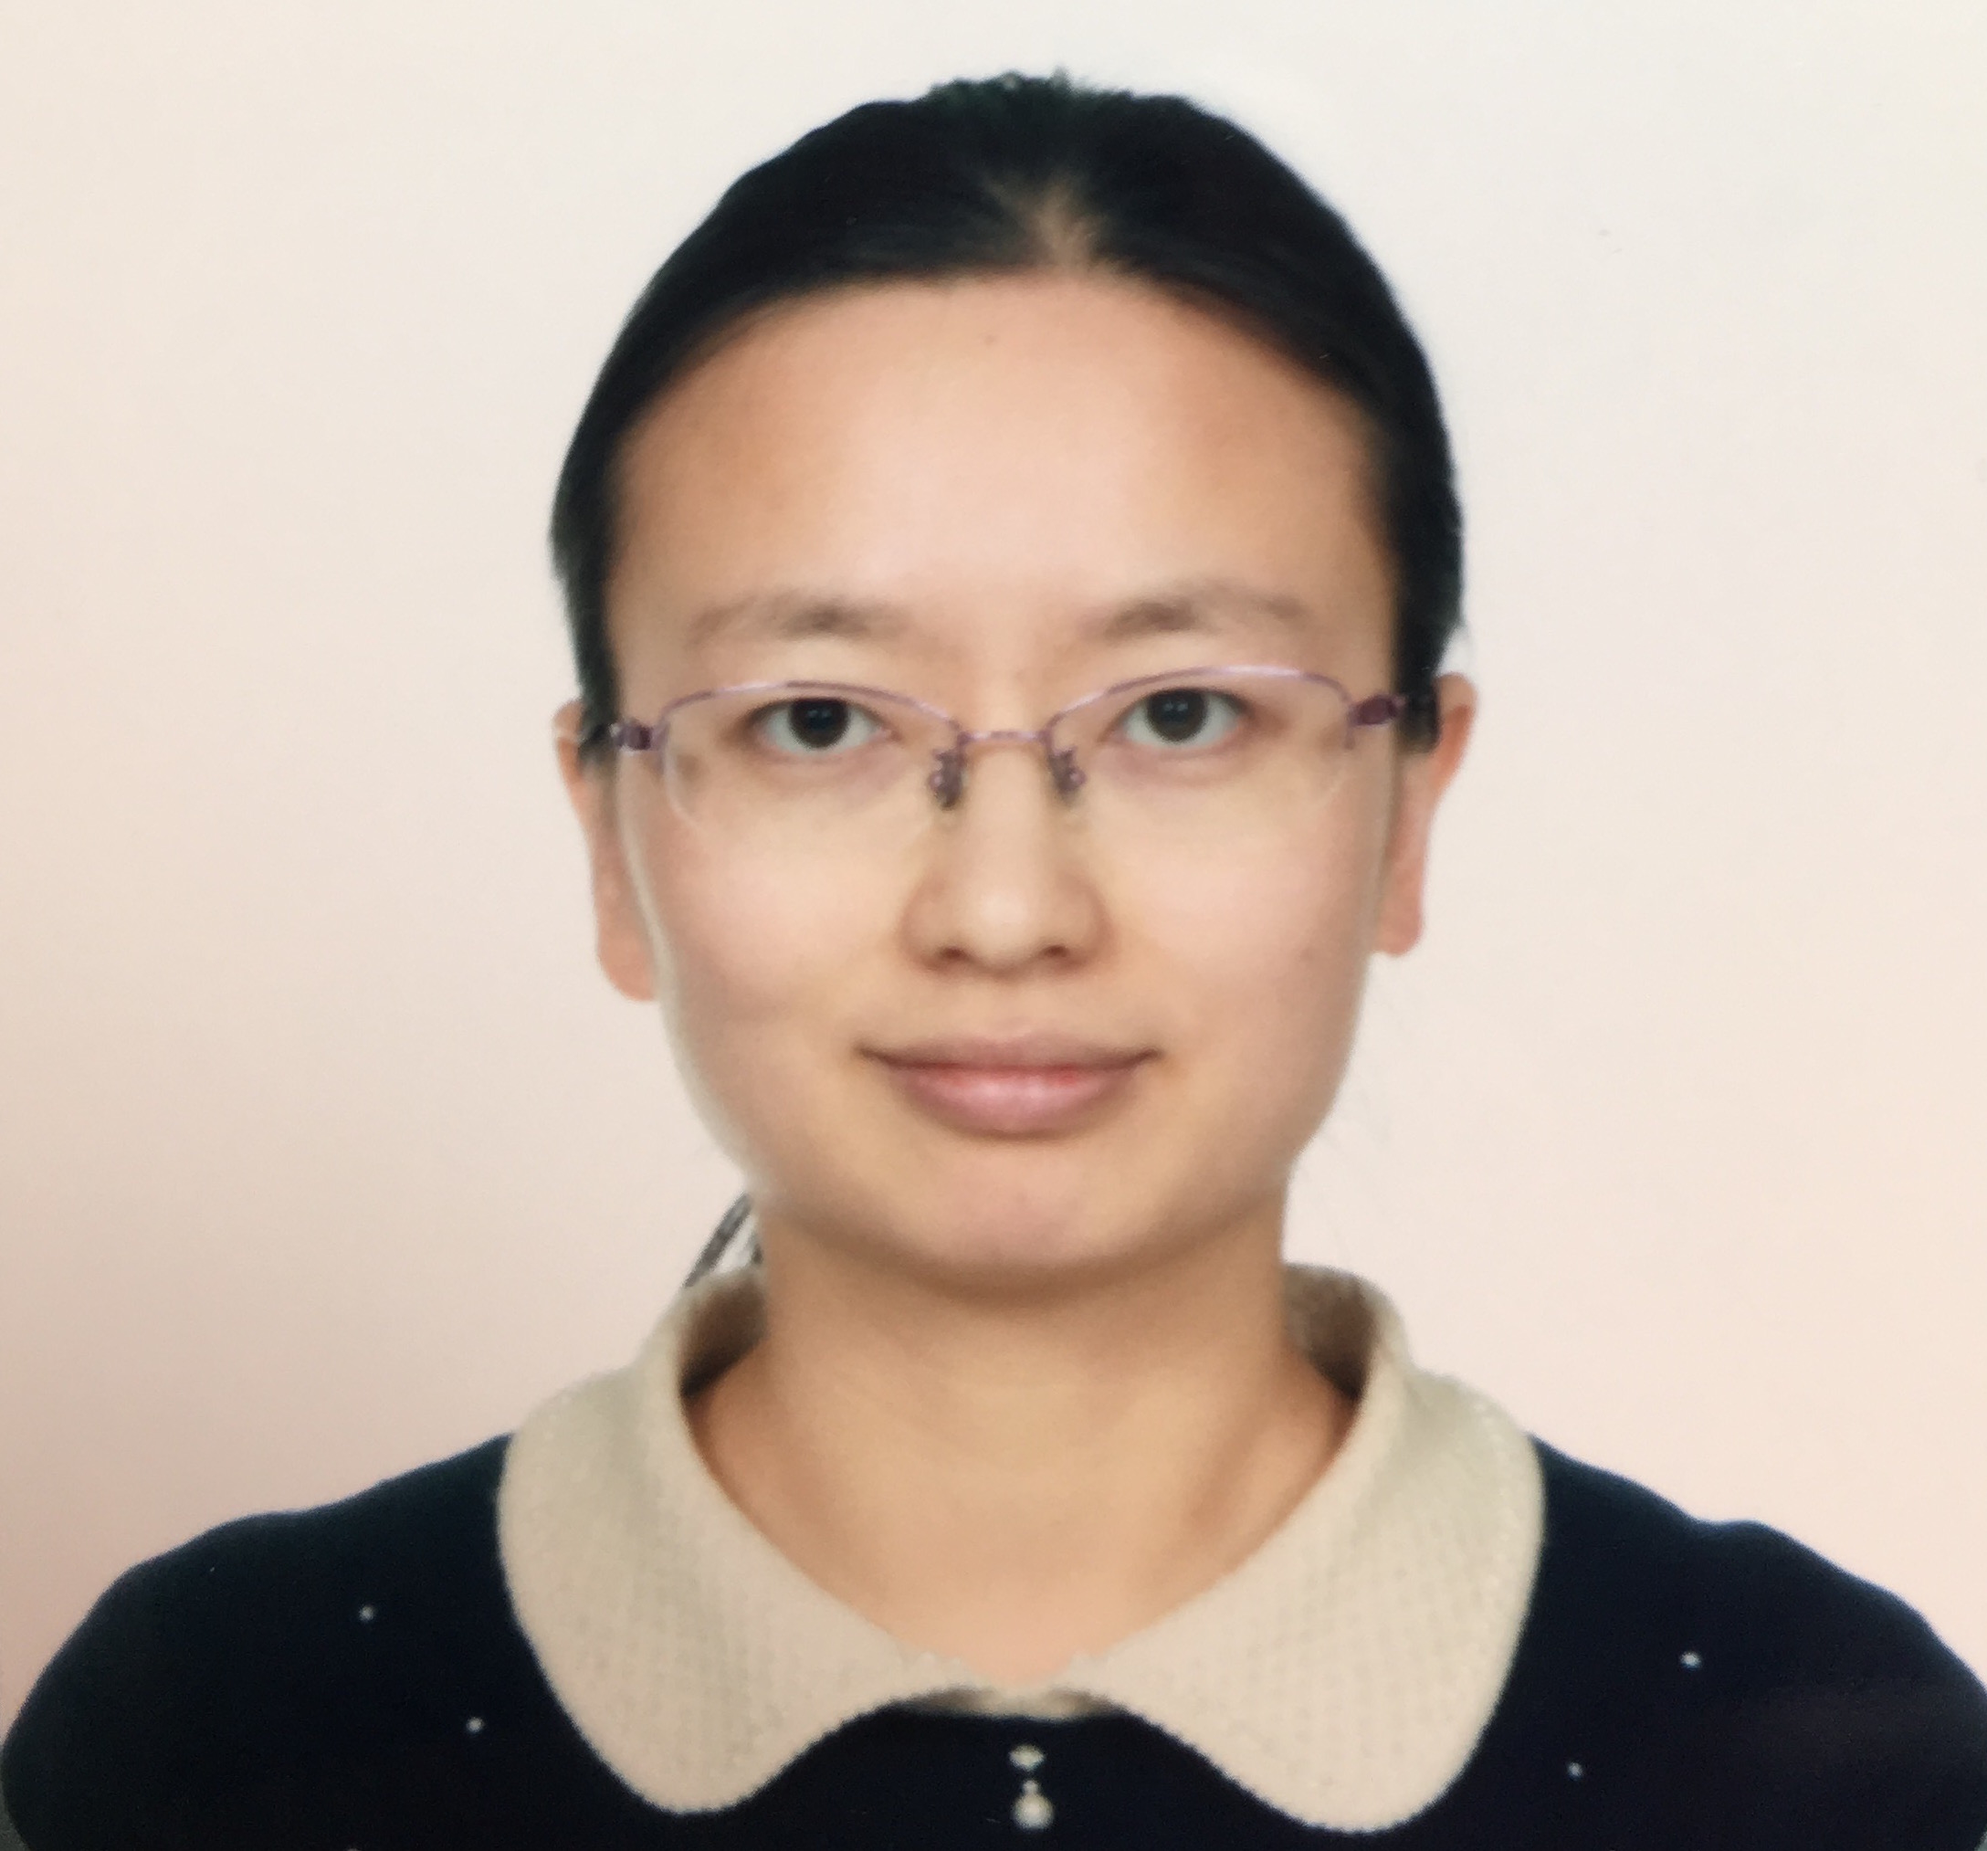
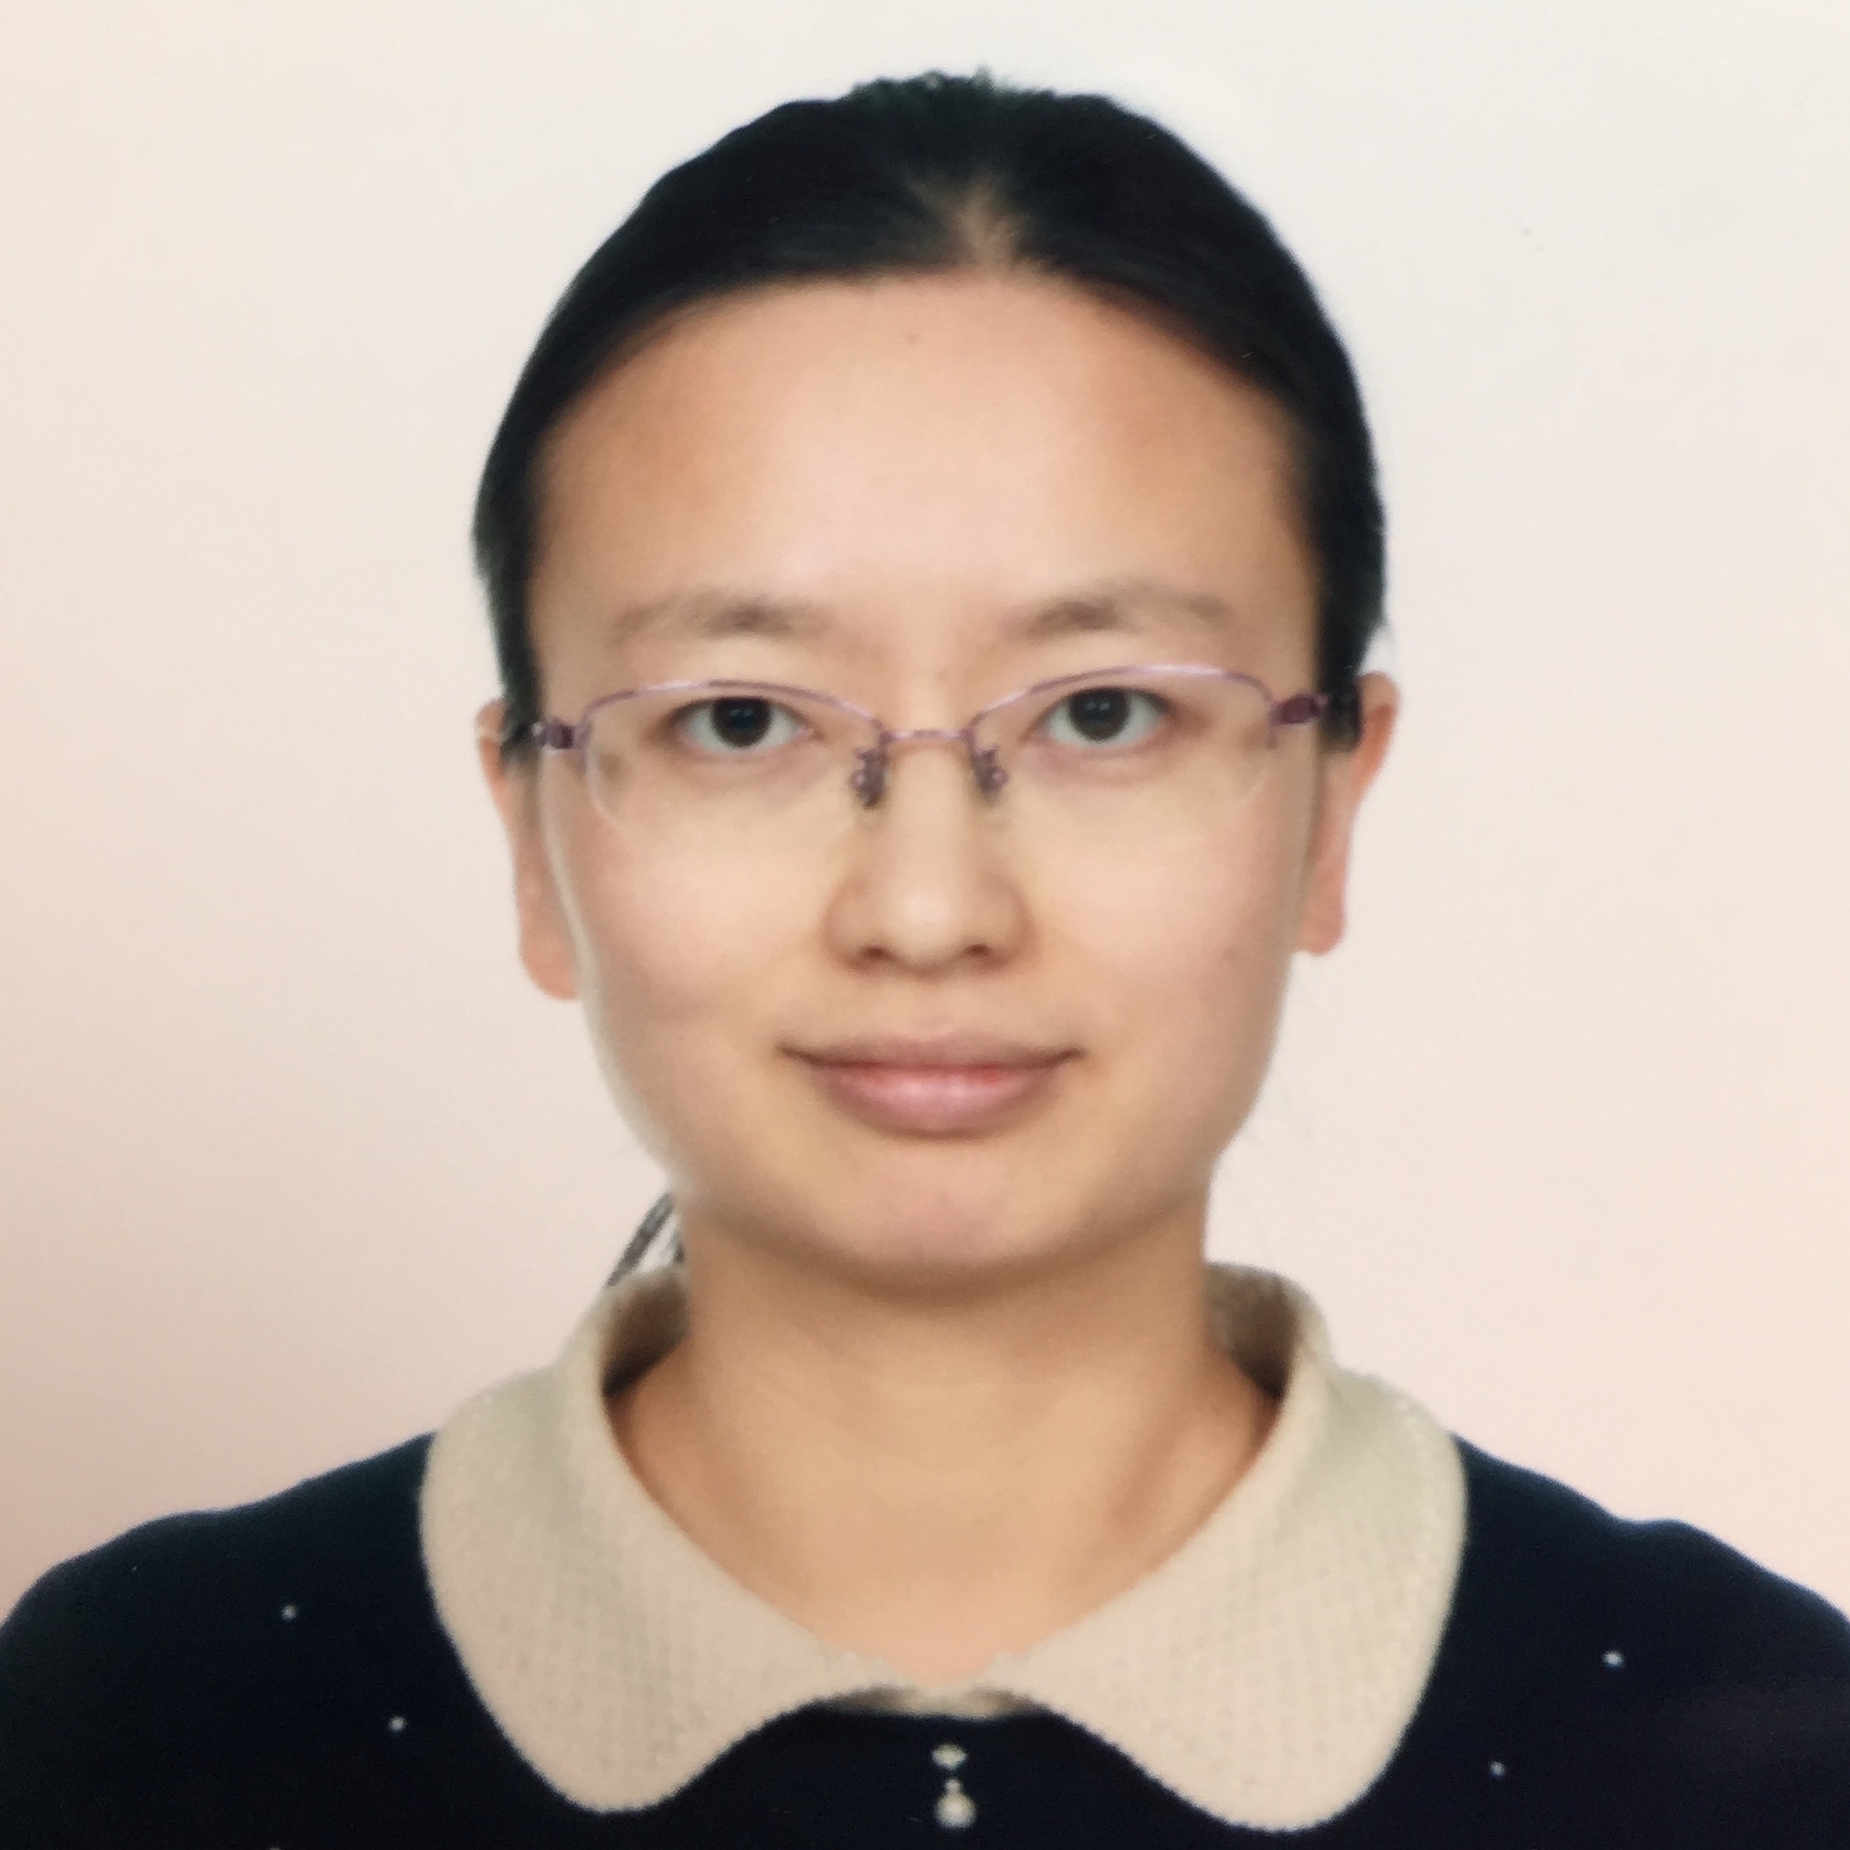
revise DongChen.img revise team.html image size to "270x270"

diff --git a/team.html b/team.html
@@ -87,7 +87,7 @@
 
                     <div class="col-sm-4 text-center">
                         <!--<img class="img-responsive" src="http://placehold.it/750x450" alt="">-->
-                        <img  src="img/PengfeiXing.jpg" style="width:270px;height:250px;"alt="">
+                        <img  src="img/PengfeiXing.jpg" style="width:270px;height:270px;"alt="">
                         <h3>Pengfei Xing</h3>
                         <p>Team Leader</p>
                         <p>pxing@usc.edu</p>
@@ -100,11 +100,11 @@
                                 <img src="img/resume.png" style="width:120px;height:40px;" alt="">
                             </a>
                         </p>
-                        <p>Pengfei Xin is an M.S. Computer Science student at the University of Southern California.</p>
+                        <p>Pengfei Xing is an M.S. Computer Science student at the University of Southern California.</p>
                     </div>
 
                     <div class="col-sm-4 text-center">
-                        <img  src="img/YingYu.jpg" style="width:270px;height:250px;"alt="">
+                        <img  src="img/YingYu.jpg" style="width:270px;height:270px;"alt="">
                         <h3>Ying Yu</h3>
                         <p>Team Member</p>
                         <p>yuying@usc.edu</p>
@@ -122,7 +122,7 @@
 
                     <div class="col-sm-4 text-center">
                         <!--<img class="img-responsive" src="http://placehold.it/750x450" alt="">-->
-                        <img  src="img/ChiZhang.jpg" style="width:270px;height:250px;" alt="">
+                        <img  src="img/ChiZhang.jpg" style="width:270px;height:270px;" alt="">
                         <h3>Chi Zhang</h3>
                         <p>Team Member</p>
                         <p>zhan805@usc.edu</p>
@@ -140,7 +140,7 @@
 
                     <div class="col-sm-4 text-center">
                         <!--<img class="img-responsive" src="http://placehold.it/750x450" alt="">-->
-                        <img  src="img/YizhaoHe.jpg" style="width:270px;height:250px;"alt="">
+                        <img  src="img/YizhaoHe.jpg" style="width:270px;height:270px;"alt="">
                         <h3>Yizhao He</h3>
                         <p>Team Member</p>
                         <p>yizhaohe@usc.edu</p>
@@ -158,7 +158,7 @@
 
                     <div class="col-sm-4 text-center">
                         <!--<img class="img-responsive" src="http://placehold.it/750x450" alt="">-->
-                        <img  src="img/JianingLiu.jpg" style="width:270px;height:250px;"alt="">
+                        <img  src="img/JianingLiu.jpg" style="width:270px;height:270px;"alt="">
                         <h3>Jianing Liu</h3>
                         <p>Team Member</p>
                         <p>liujiani@usc.edu</p>
@@ -176,7 +176,7 @@
 
                     <div class="col-sm-4 text-center">
                         <!--<img class="img-responsive" src="http://placehold.it/750x450" alt="">-->
-                        <img  src="img/DongChen.jpg" style="width:270px;height:250px;"alt="">
+                        <img  src="img/DongChen.jpg" style="width:270px;height:270px;"alt="">
                         <h3>Dong Chen</h3>
                         <p>Team Member</p>
                         <p>chendong@usc.edu</p>
